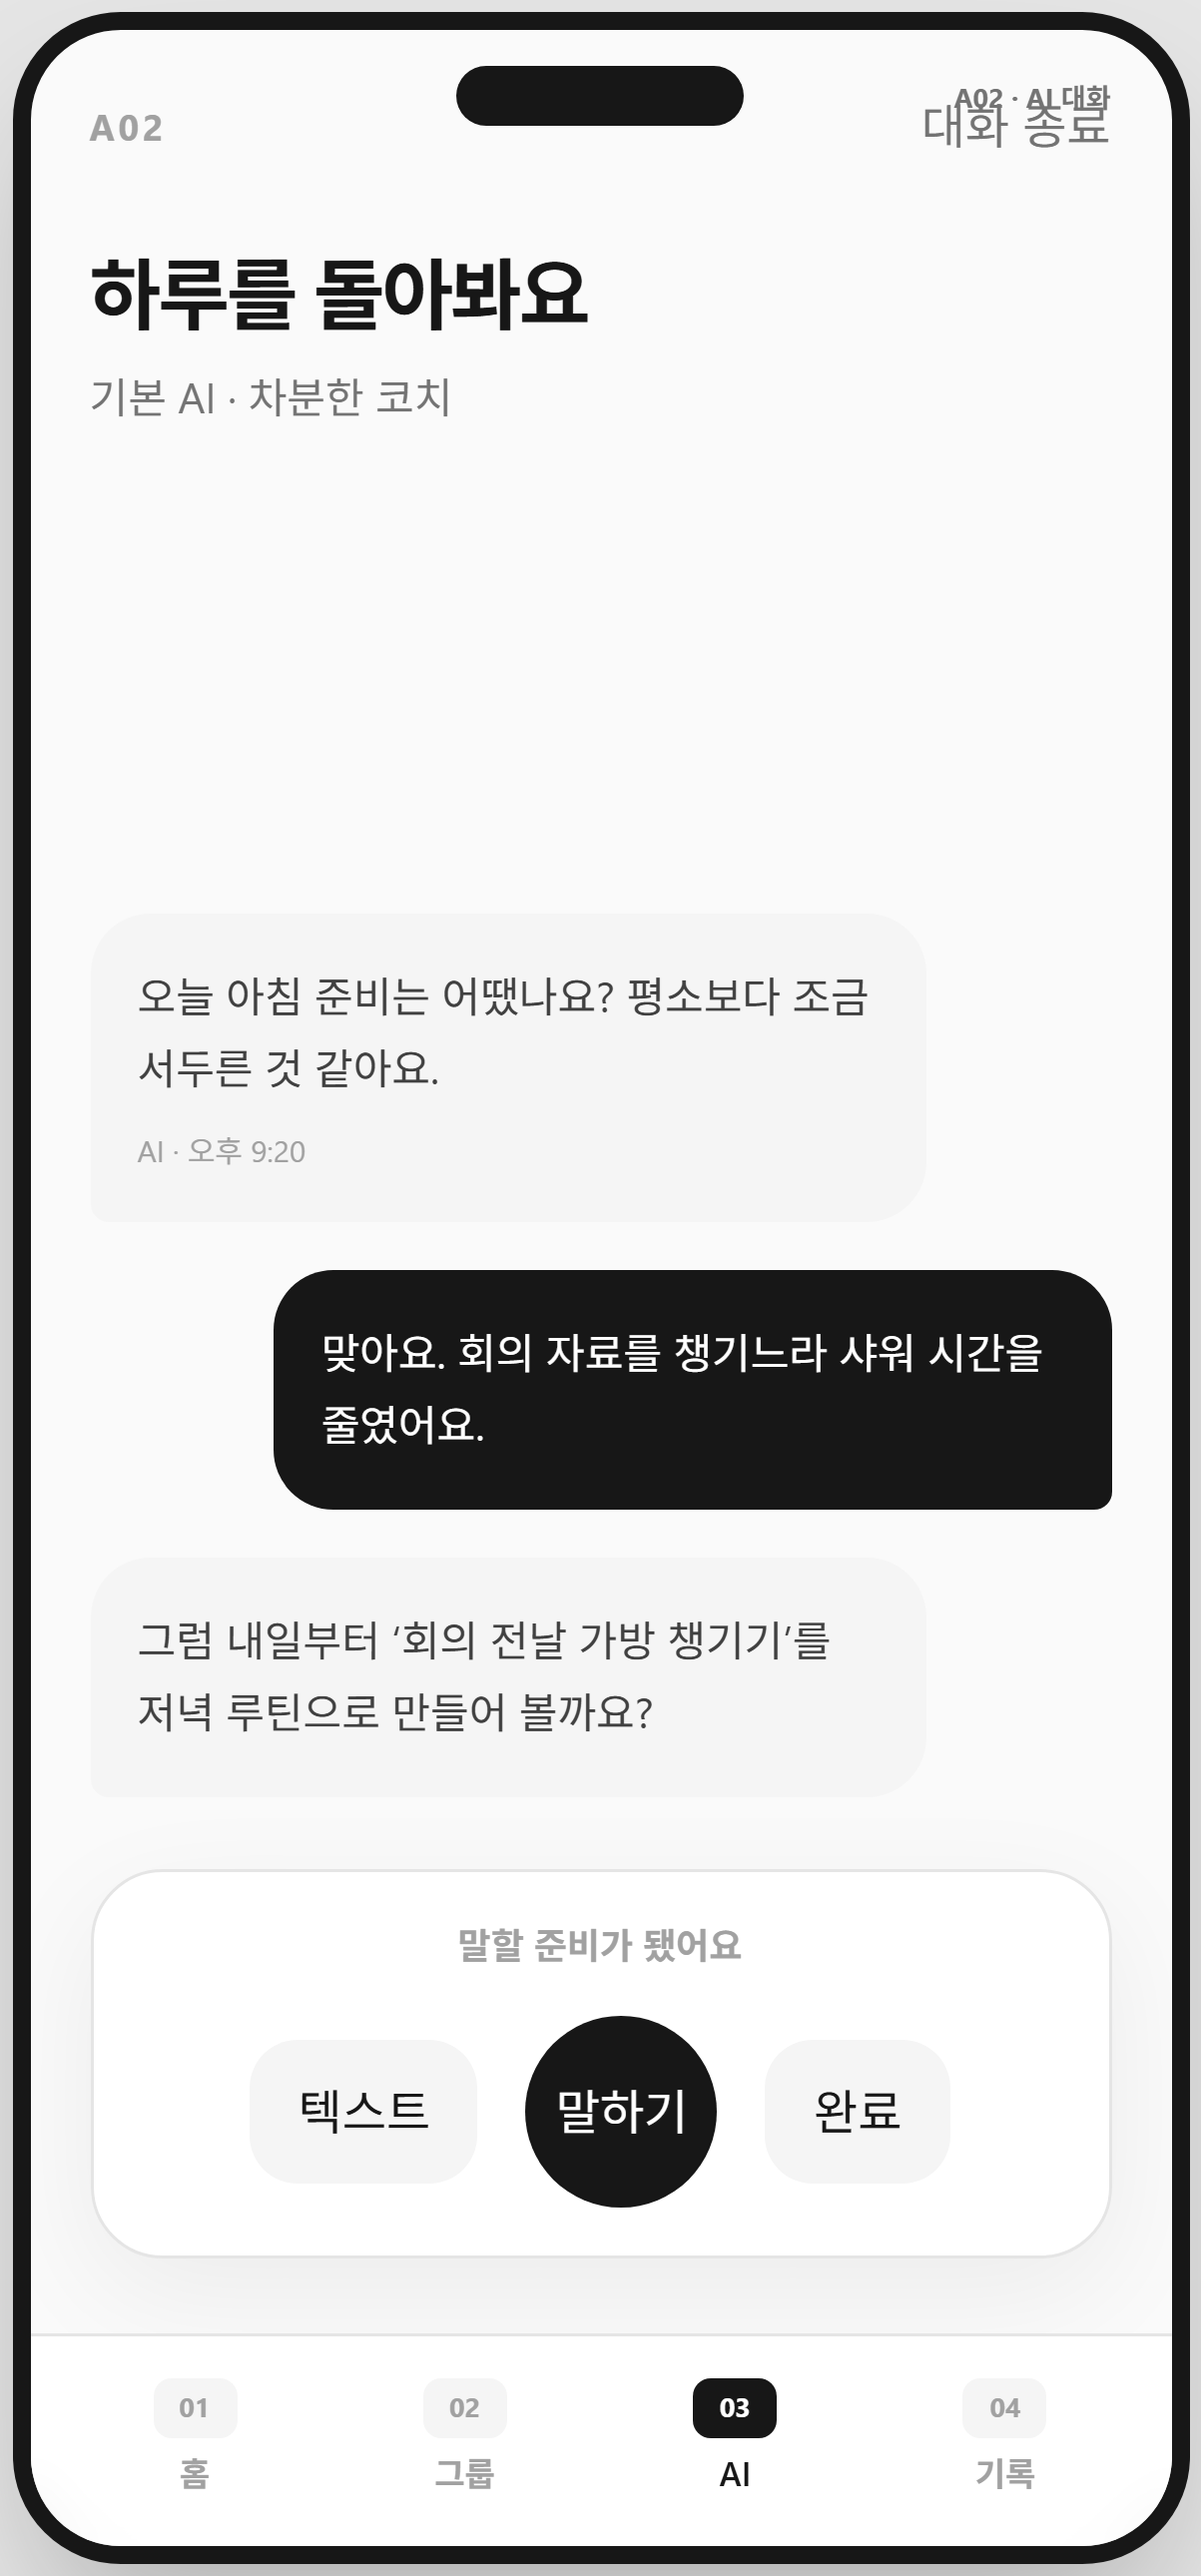
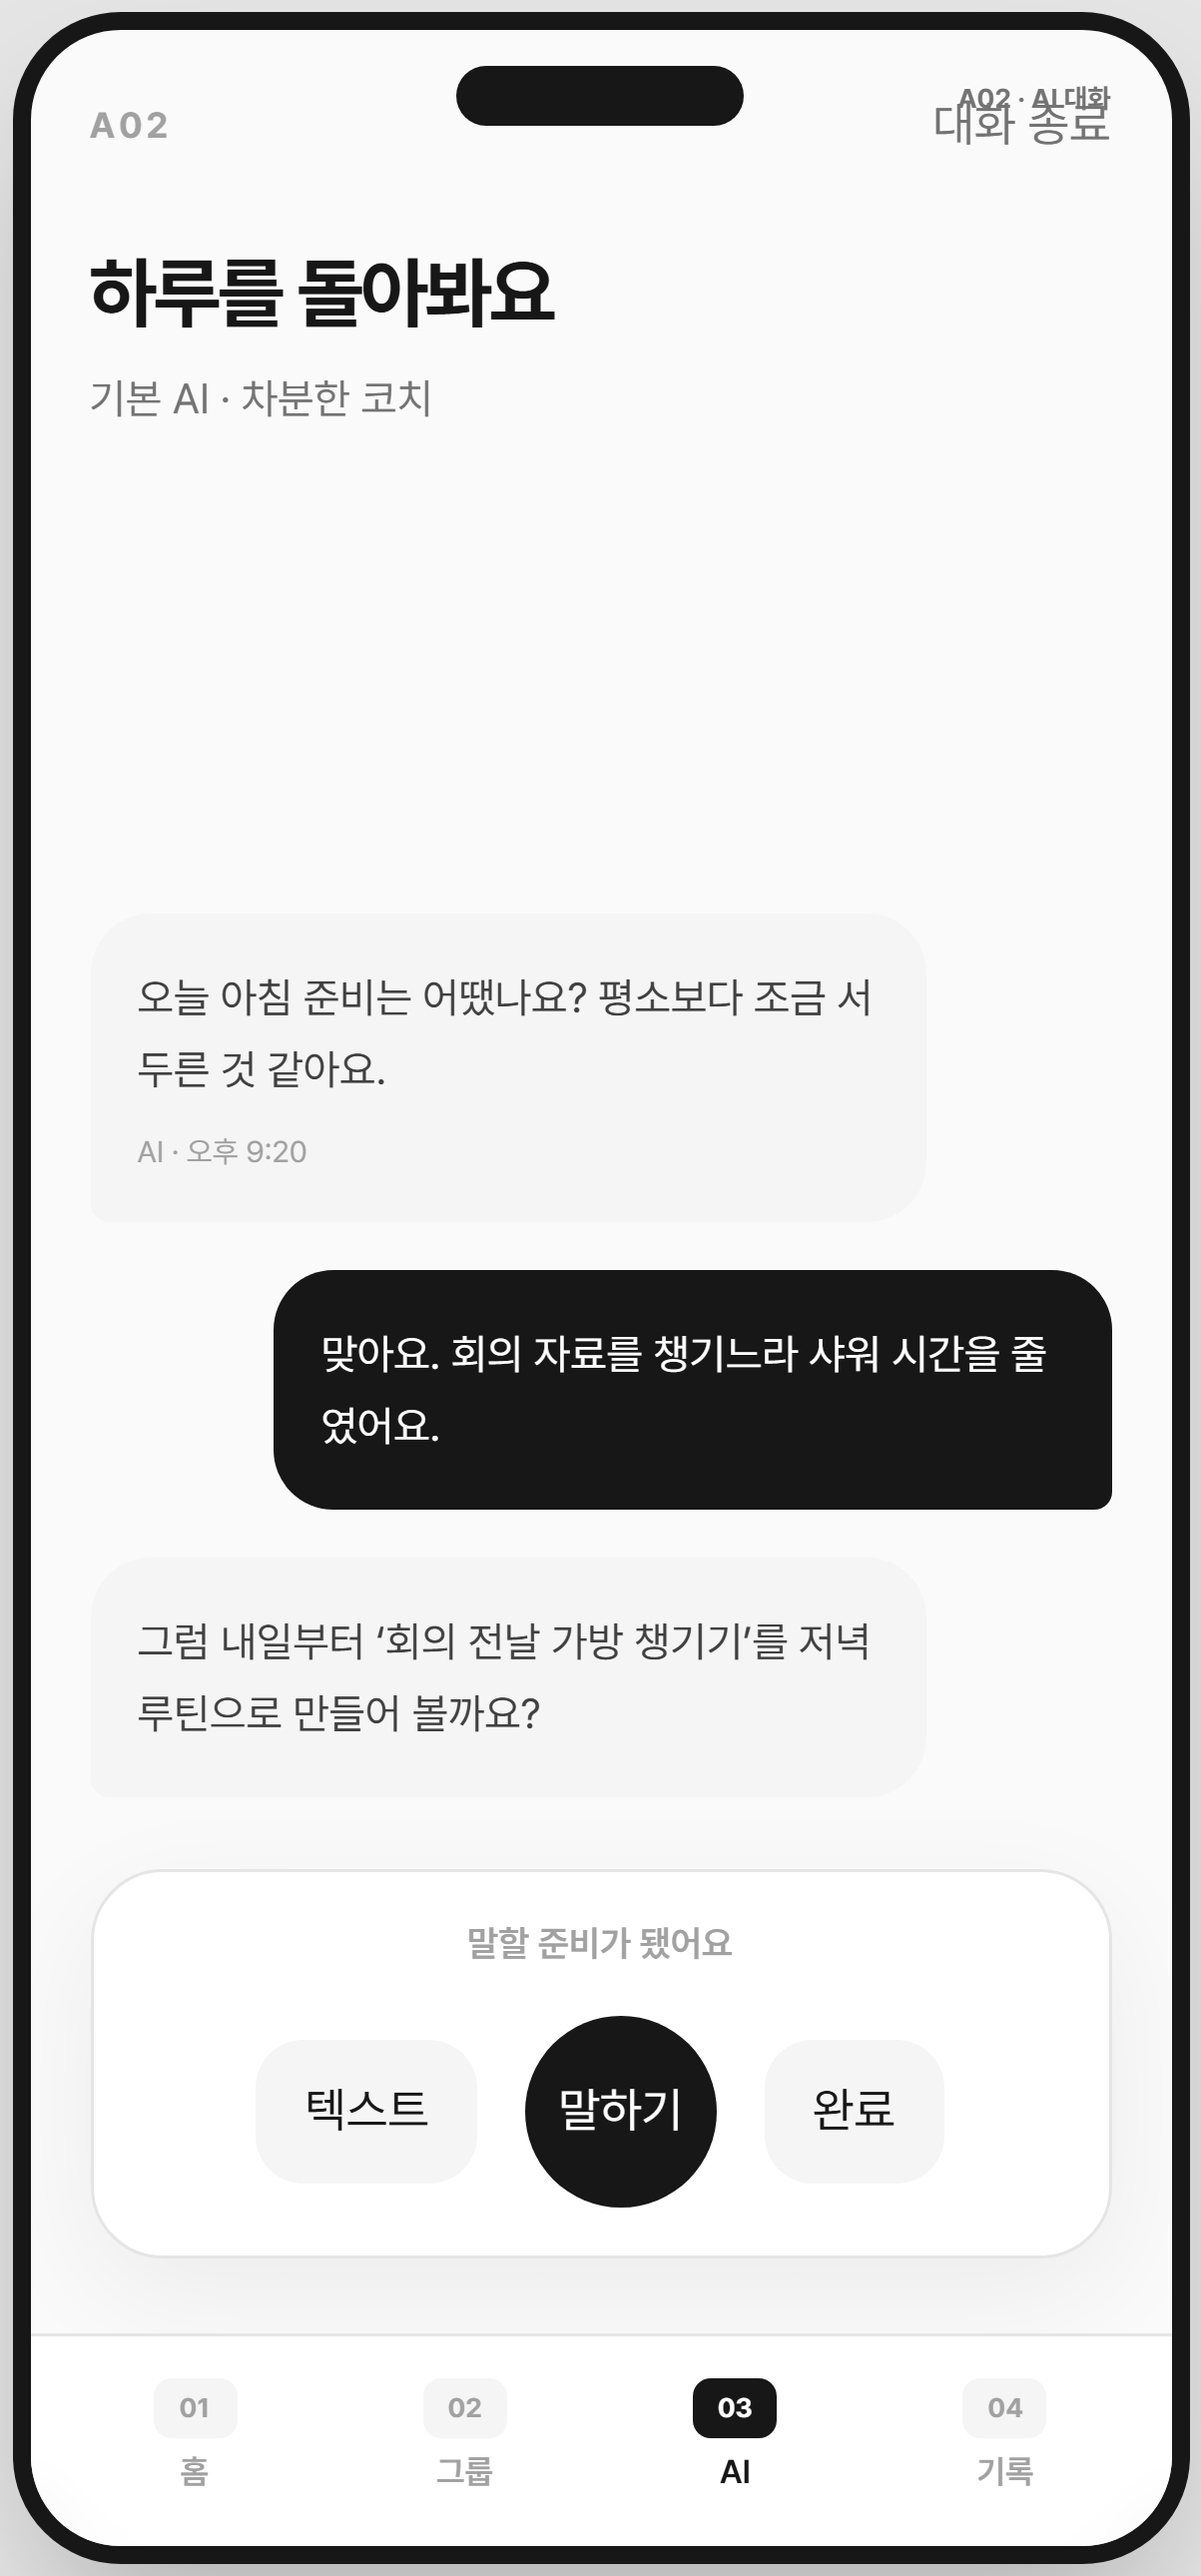
[DESIGN] [DOCS] 피그마 화면 PNG Pretendard로 다시 캡처

diff --git a/docs/design/figma/README.md b/docs/design/figma/README.md
@@ -34,7 +34,7 @@
 
 ## 캡처 주의
 
-- 글꼴: 사이트가 Pretendard를 못 불러와 시스템 글꼴로 찍힘 → 글꼴 · 글자 크기는 `mobile/src/theme` 기준
+- 글꼴: 사이트가 Pretendard를 못 불러와서 캡처할 때 Pretendard(v1.3.9)를 넣어 찍음 — 앱과 같은 글꼴. 글자 크기는 `mobile/src/theme` 기준
 - 흰 글씨 카드: H01 다음 알람 · G02 그룹 공유 범위 · P02 맨 위 · P03 다음 알람 · P04 완료 카드는 배경 없이 흰 글씨라 비어 보임. 사이트에서도 같게 보임
 - 오른쪽 위 작은 번호(`H01 · 홈` 등)는 사이트 표시라 앱엔 안 넣음
 
